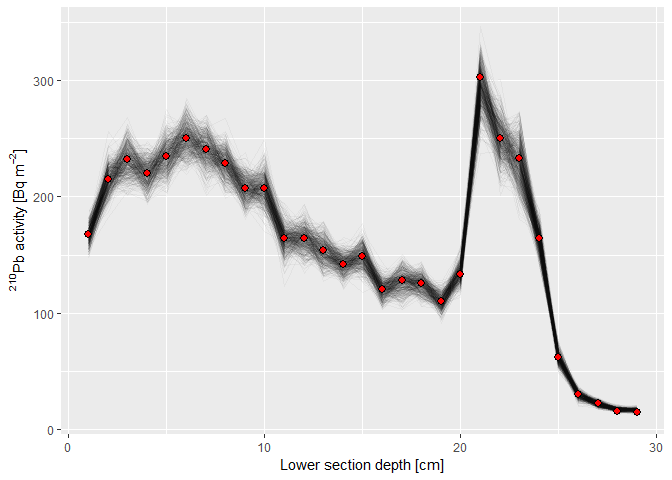
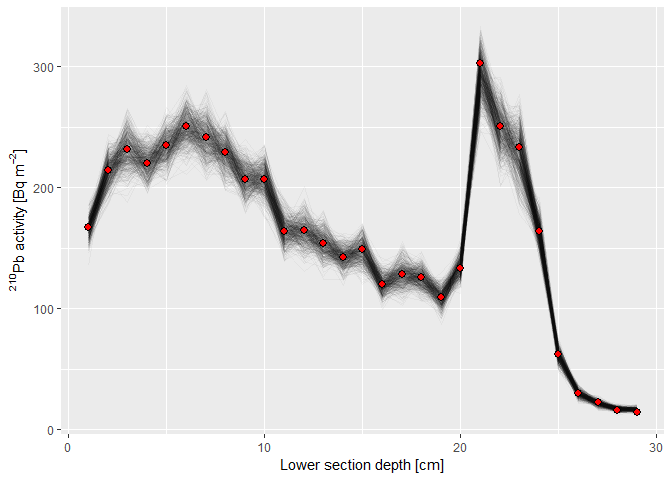
Updated README.

diff --git a/README.md b/README.md
@@ -91,9 +91,6 @@ d_fit <-
 #> Chain 1: Rejecting initial value:
 #> Chain 1:   Log probability evaluates to log(0), i.e. negative infinity.
 #> Chain 1:   Stan can't start sampling from this initial value.
-#> Chain 1: Rejecting initial value:
-#> Chain 1:   Log probability evaluates to log(0), i.e. negative infinity.
-#> Chain 1:   Stan can't start sampling from this initial value.
 #> Chain 1: 
 #> Chain 1: Gradient evaluation took 0 seconds
 #> Chain 1: 1000 transitions using 10 leapfrog steps per transition would take 0 seconds.
@@ -113,9 +110,9 @@ d_fit <-
 #> Chain 1: Iteration: 1400 / 1500 [ 93%]  (Sampling)
 #> Chain 1: Iteration: 1500 / 1500 [100%]  (Sampling)
 #> Chain 1: 
-#> Chain 1:  Elapsed Time: 1.214 seconds (Warm-up)
-#> Chain 1:                1.055 seconds (Sampling)
-#> Chain 1:                2.269 seconds (Total)
+#> Chain 1:  Elapsed Time: 1.164 seconds (Warm-up)
+#> Chain 1:                1.163 seconds (Sampling)
+#> Chain 1:                2.327 seconds (Total)
 #> Chain 1:
 ```
 
@@ -135,26 +132,26 @@ d_extracted_fit <-
 ``` r
 head(d_extracted_fit)
 #>   iter data_type depth_profile depth_lower depth_upper      age
-#> 1    1     pb210      measured          29          28 257.6799
-#> 2    2     pb210      measured          29          28 237.0759
-#> 3    3     pb210      measured          29          28 211.6760
-#> 4    4     pb210      measured          29          28 185.5474
-#> 5    5     pb210      measured          29          28 284.8788
-#> 6    6     pb210      measured          29          28 210.9863
+#> 1    1     pb210      measured          29          28 246.9491
+#> 2    2     pb210      measured          29          28 191.9310
+#> 3    3     pb210      measured          29          28 268.8333
+#> 4    4     pb210      measured          29          28 236.5926
+#> 5    5     pb210      measured          29          28 268.5229
+#> 6    6     pb210      measured          29          28 265.2187
 #>   depth_accumulation_rate depth_accumulation_rate_alpha pb210_tot
-#> 1                      NA                            NA  18.32185
-#> 2                      NA                            NA  16.06610
-#> 3                      NA                            NA  15.66435
-#> 4                      NA                            NA  17.53089
-#> 5                      NA                            NA  17.08202
-#> 6                      NA                            NA  18.21800
+#> 1                      NA                            NA  18.77495
+#> 2                      NA                            NA  13.24881
+#> 3                      NA                            NA  18.72880
+#> 4                      NA                            NA  16.35735
+#> 5                      NA                            NA  20.69651
+#> 6                      NA                            NA  17.87121
 #>   pb210_supported     omega
-#> 1        4.437940 0.3163965
-#> 2        4.413944 0.2977588
-#> 3        4.444461 0.2863706
-#> 4        4.425640 0.3022443
-#> 5        4.236175 0.2565575
-#> 6        4.512631 0.3283439
+#> 1        5.072997 0.3675504
+#> 2        3.953496 0.2766916
+#> 3        4.795134 0.3074613
+#> 4        4.017197 0.3098338
+#> 5        4.975957 0.3311262
+#> 6        4.797021 0.2965814
 ```
 
 With `d_extracted_fit`, it is easy to plot the modeled age-depth profile, e.g. using functions of `ggplot2`: Here, I plotted the estimated sediment ages versus lower section depths according to the first 500 draws of the MCMC algorithm.
